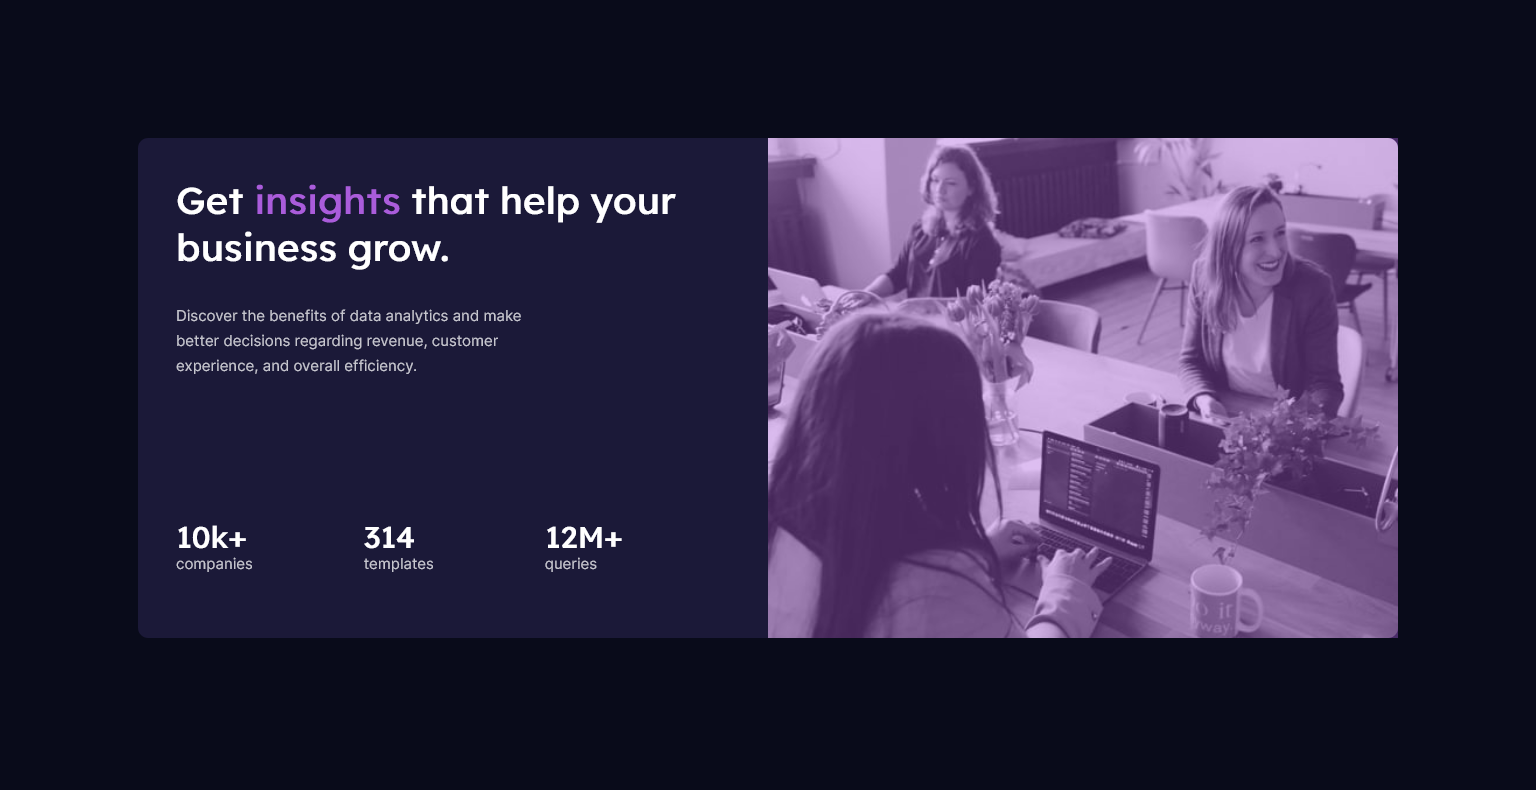
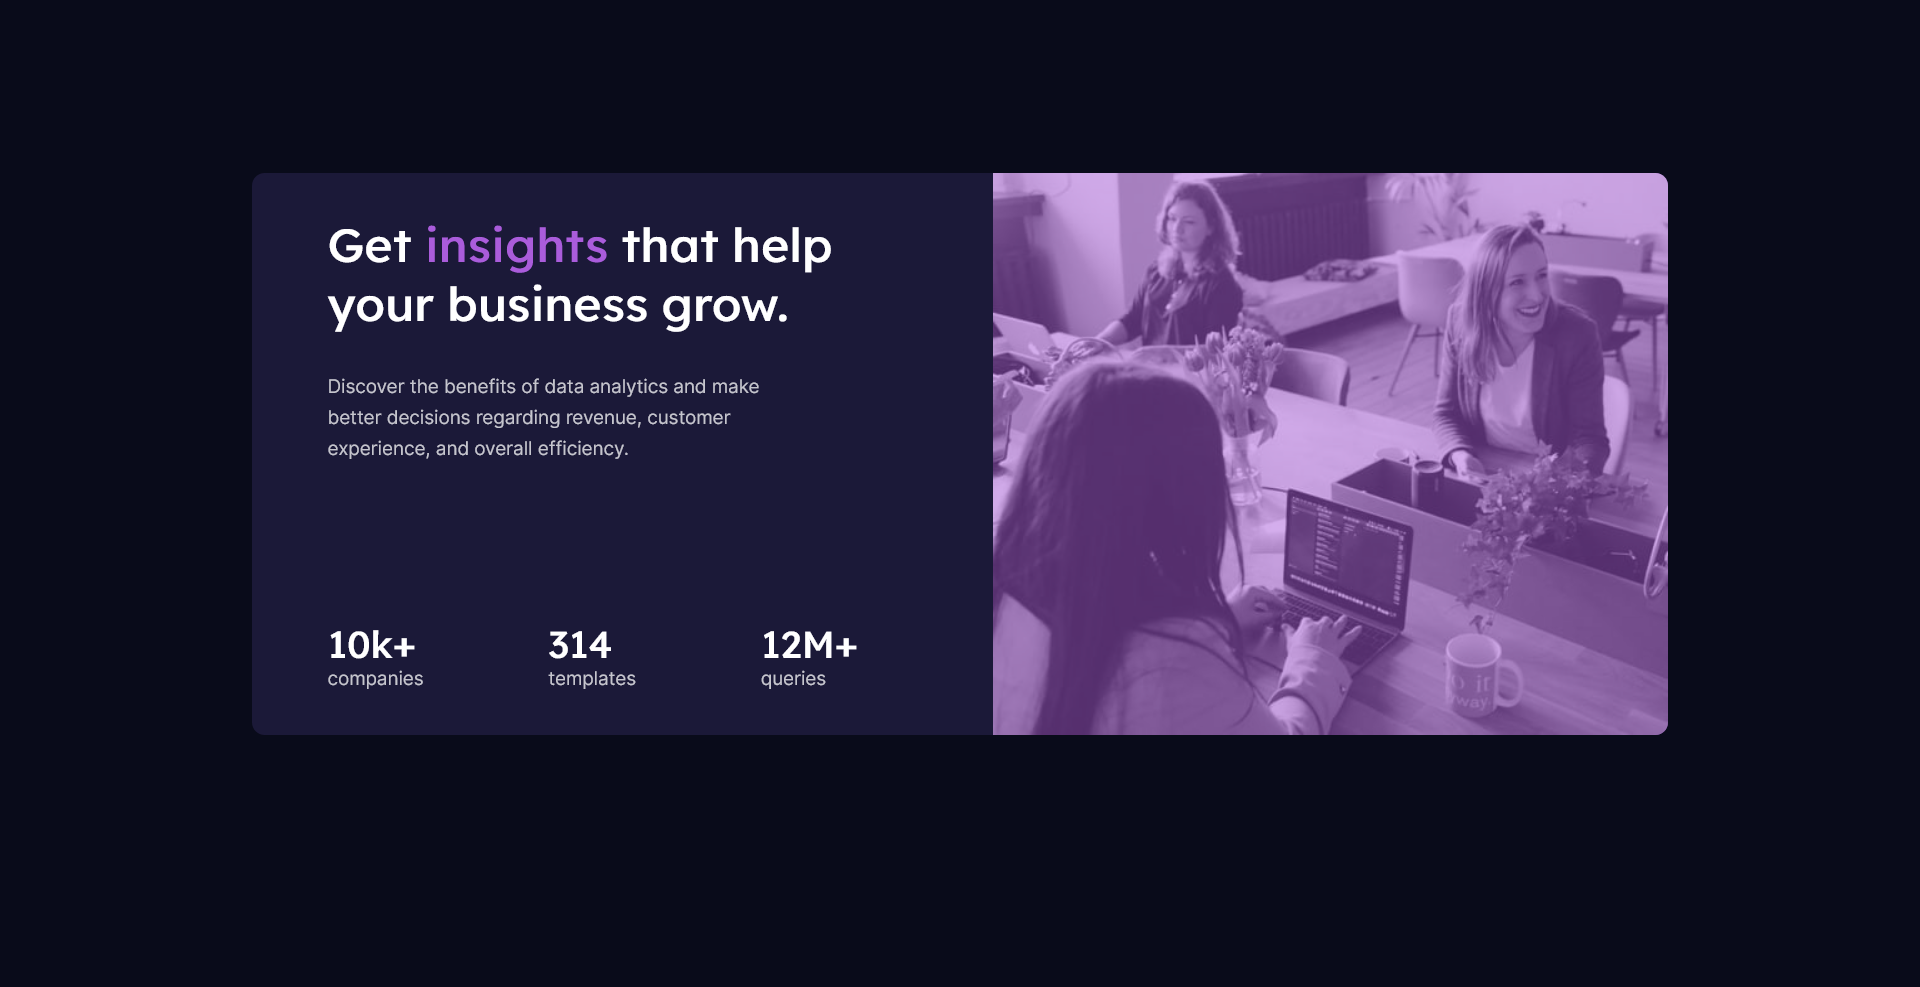
Add files via upload
last commit

Changed region(s): [[0.0625, 0.1519, 0.9375, 0.8203]]

diff --git a/stats-preview-card-component-main/design/style.css b/stats-preview-card-component-main/design/style.css
@@ -18,11 +18,11 @@ body {
 }
 
 .card {
-    width: 100%;
-    height: fit-content;
+    width: 90%;
+    height: auto;
     background-color: hsl(244, 38%, 16%);
     display: flex;
-    flex-direction: row;
+    flex-direction: row-reverse;
     border-radius: 10px;
 }
 
@@ -63,22 +63,19 @@ body {
 .stats-container p {
     color: hsla(0, 0%, 100%, 0.75);
     font: 1em var(--FFInter);
-}  
+}
 
-.img {
-    width: 50%;
-    height: 500px; 
-    background: url(../images/image-header-desktop.jpg) no-repeat;
-    background-size: cover;
-    order: 2;
+.colorAdder {
+    background-color: hsl(277, 64%, 61%);
+    height: auto;
     border-radius: 0 10px 10px 0;
 }
 
-.img .img-container {
-    width: 100%;
+img {
     height: 100%;
-    background-color: hsla(277, 64%, 61%, 0.4);
-    
+    width: 100%;
+    border-radius: 0 10px 10px 0;
+    opacity: 0.5;
 }
 
 @media (max-width: 1370px) {
@@ -92,17 +89,16 @@ body {
     .stats-container {
         justify-content: space-between;
     }
+    .colorAdder {border-radius: 10px 10px 0 0;}
+    img {border-radius: 10px 10px 0 0;}
+}
+
+@media (max-width: 740px) {
     .img {
-        width: 100%;
         height: fit-content;
-        background: url(../images/image-header-mobile.jpg) no-repeat;
-        background-size: cover;
-        border-radius: 10px 10px 0 0;
-        order: 1;
-    }
-    .img .img-container {
-        border-radius: 10px 10px 0 0;
         width: 100%;
+        background: url(../images/image-header-mobile.jpg) no-repeat;
+        background-size: contain;
     }
 }
 

diff --git a/stats-preview-card-component-main/index.html b/stats-preview-card-component-main/index.html
@@ -46,8 +46,8 @@
       </div>
     </div>
 
-    <div class="img">
-      <div class="img-container"></div>
+    <div class="colorAdder">
+      <img src="./images/image-header-desktop.jpg" alt="A day in the office">
     </div>
     
 
